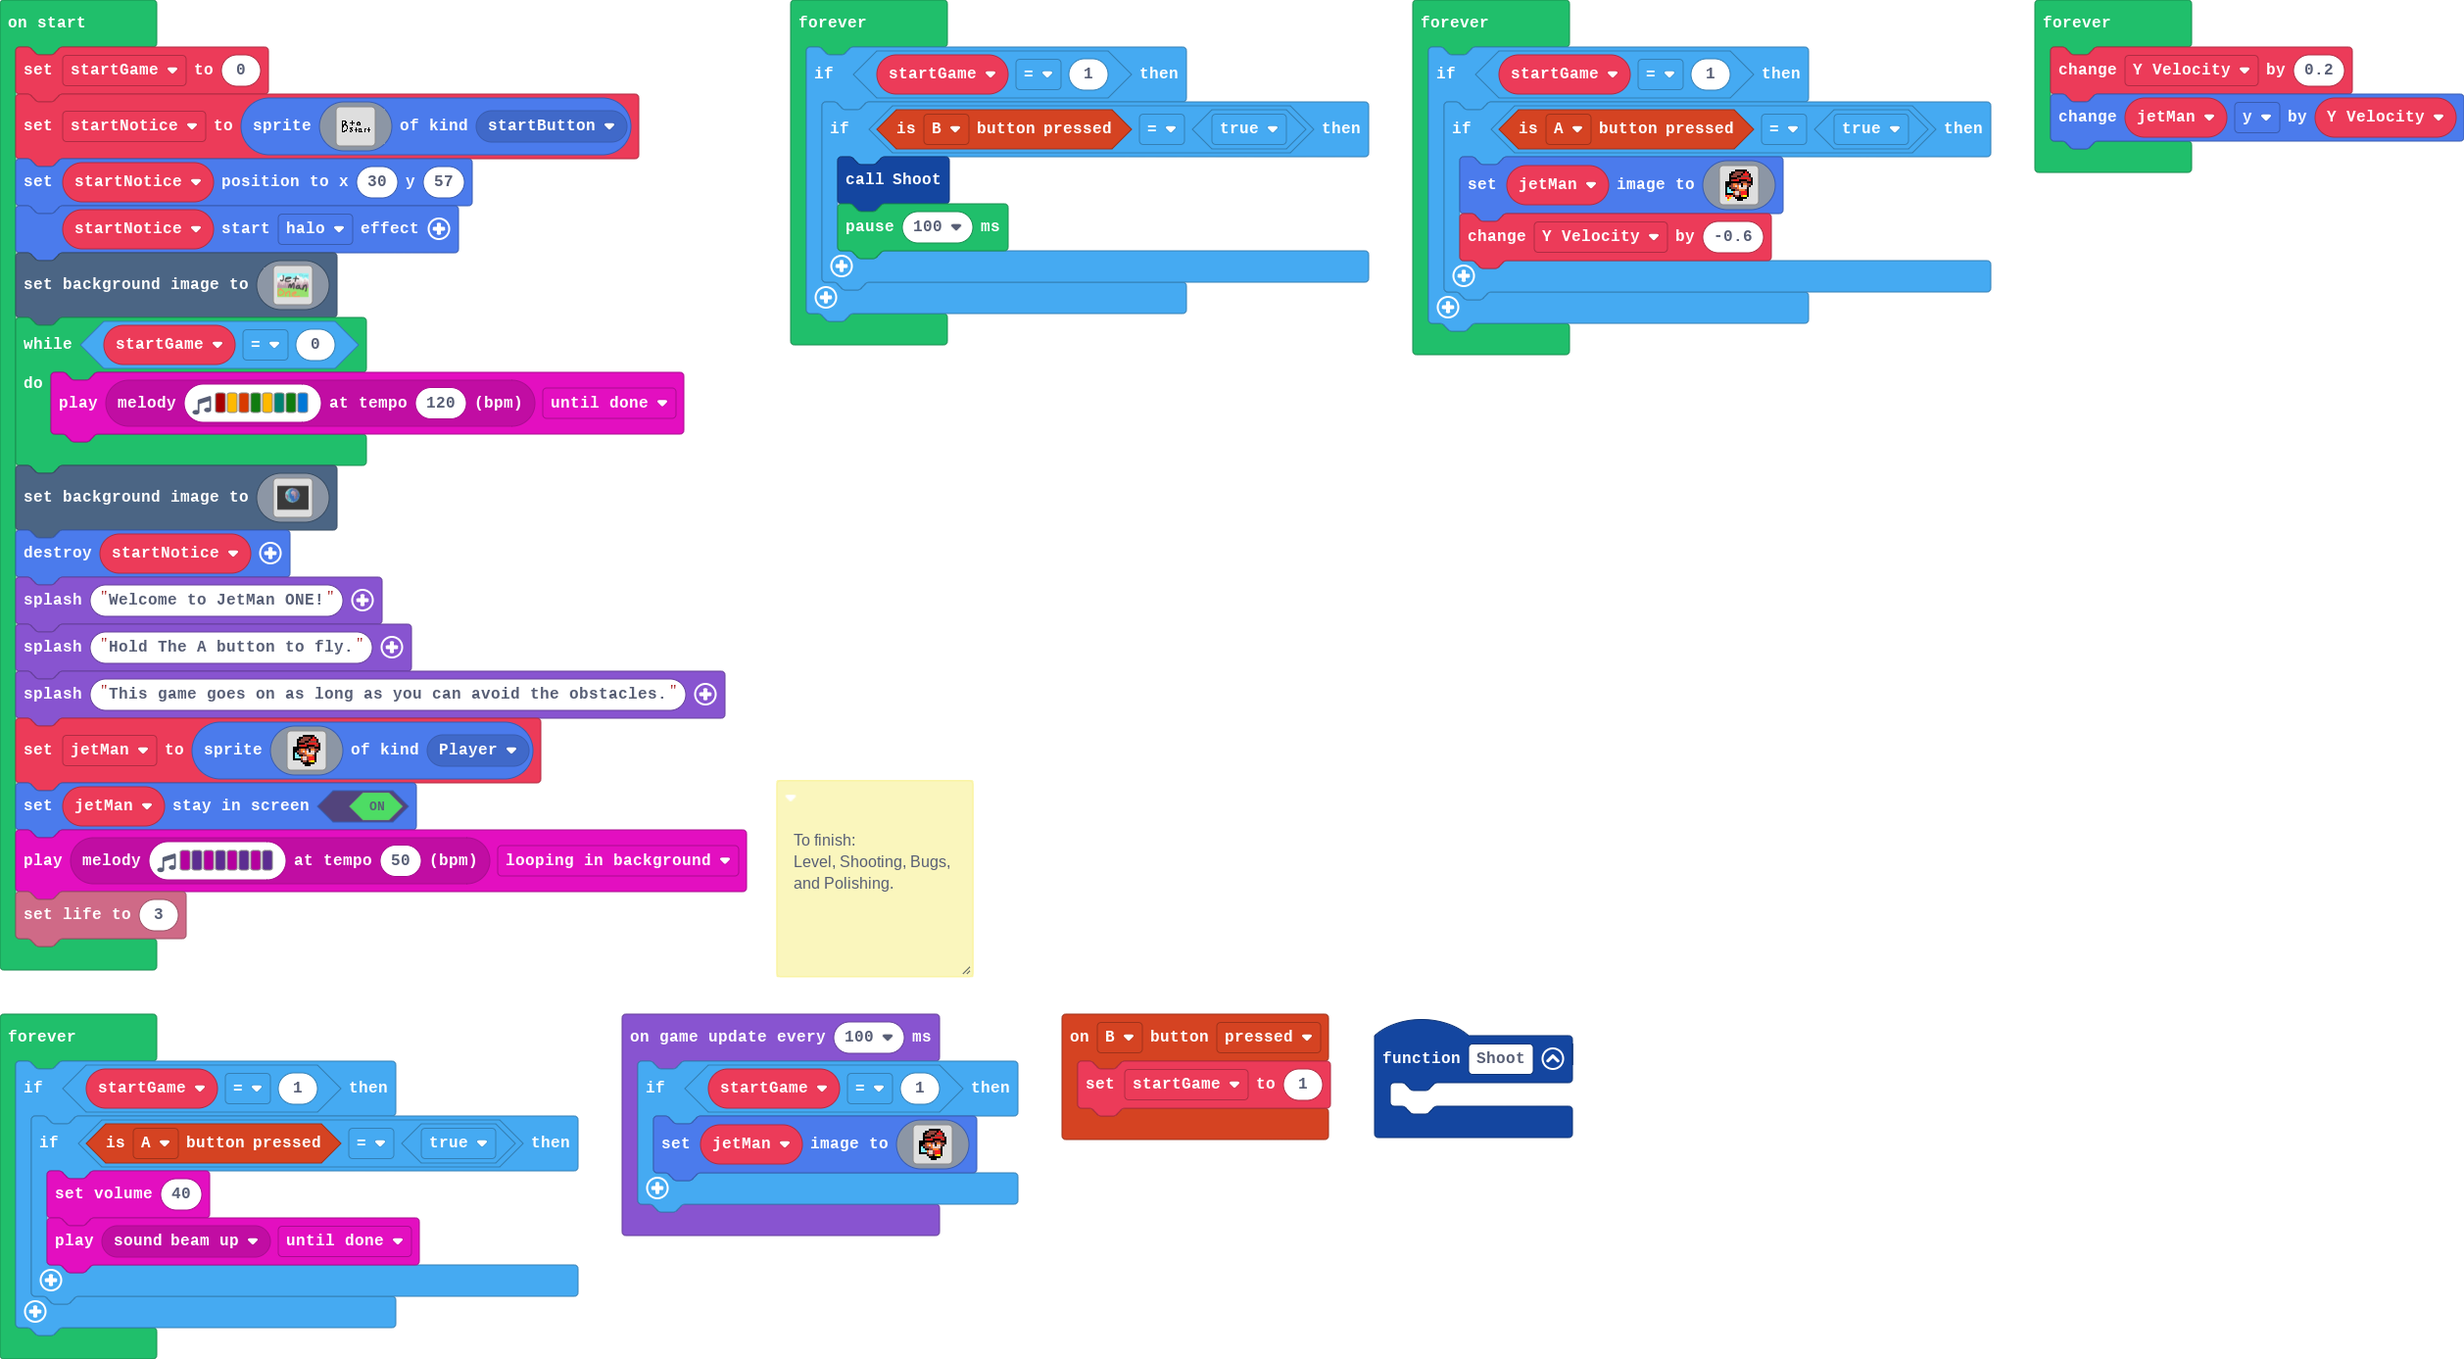
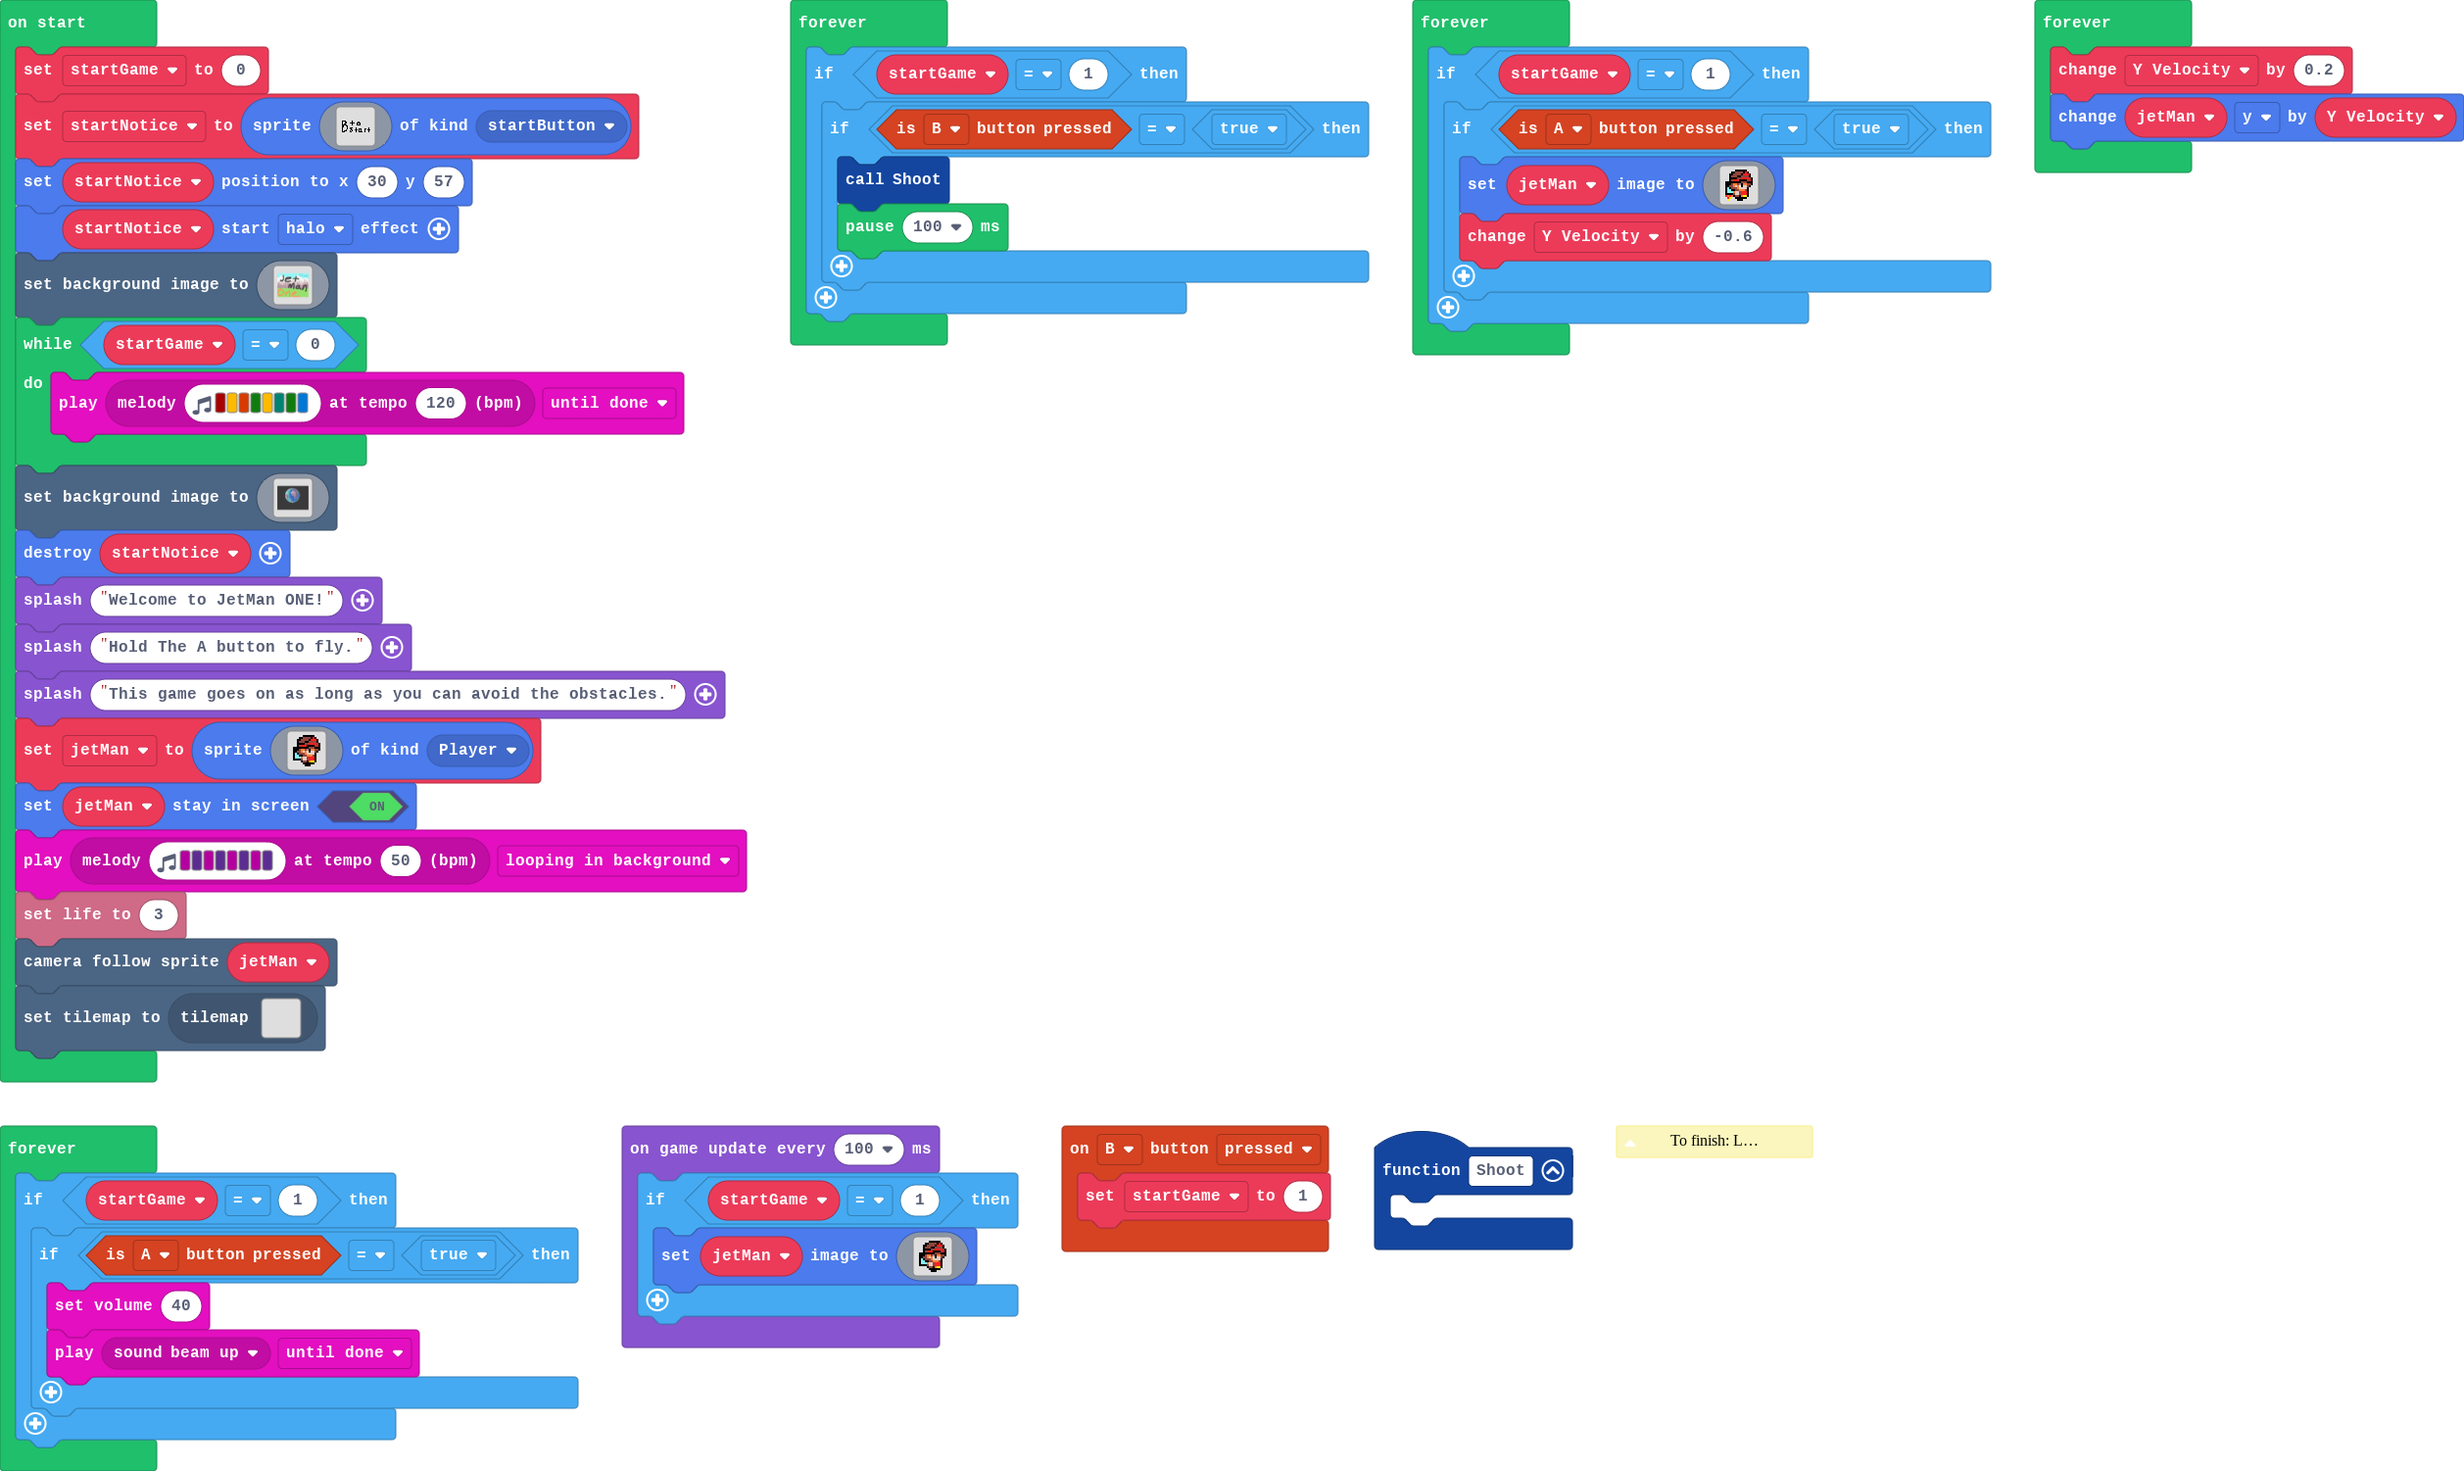
Update main.blocks, main.ts, tilemap.g.jres, tilemap.g.ts

Changed region(s): [[0.0, 0.0, 0.7443, 0.9921], [0.5583, 0.031, 1.0, 0.279], [0.3101, 0.031, 0.5583, 0.279]]

diff --git a/tilemap.g.ts b/tilemap.g.ts
@@ -7,81 +7,24 @@ namespace myTiles {
 
     helpers._registerFactory("tilemap", function(name: string) {
         switch(helpers.stringTrim(name)) {
-            case "level3":
-            case "level3":return tiles.createTilemap(hex`1000100000000000000000000000000000000000000000000000000000000000000000000000000000000000000000000000000000000000000000000000000000000000000000000000000000000000000000000000000000000000000000000000000000000000000000000000000000000000000000000000000000000000000000000000000000000000000000000000000000000000000000000000000000000000000000000000000000000000000000000000000000000000000000000000000000000000000000000000000000000000000000000000000000000000000000000000000000000000000000000000000000000000000000000000000000000000`, img`
-. . . . . . . . . . . . . . . . 
-. . . . . . . . . . . . . . . . 
-. . . . . . . . . . . . . . . . 
-. . . . . . . . . . . . . . . . 
-. . . . . . . . . . . . . . . . 
-. . . . . . . . . . . . . . . . 
-. . . . . . . . . . . . . . . . 
-. . . . . . . . . . . . . . . . 
-. . . . . . . . . . . . . . . . 
-. . . . . . . . . . . . . . . . 
-. . . . . . . . . . . . . . . . 
-. . . . . . . . . . . . . . . . 
-. . . . . . . . . . . . . . . . 
-. . . . . . . . . . . . . . . . 
-. . . . . . . . . . . . . . . . 
-. . . . . . . . . . . . . . . . 
-`, [myTiles.transparency16], TileScale.Sixteen);
-            case "level4":
-            case "level4":return tiles.createTilemap(hex`1000100000000000000000000000000000000000000000000000000000000000000000000000000000000000000000000000000000000000000000000000000000000000000000000000000000000000000000000000000000000000000000000000000000000000000000000000000000000000000000000000000000000000000000000000000000000000000000000000000000000000000000000000000000000000000000000000000000000000000000000000000000000000000000000000000000000000000000000000000000000000000000000000000000000000000000000000000000000000000000000000000000000000000000000000000000000000`, img`
-. . . . . . . . . . . . . . . . 
-. . . . . . . . . . . . . . . . 
-. . . . . . . . . . . . . . . . 
-. . . . . . . . . . . . . . . . 
-. . . . . . . . . . . . . . . . 
-. . . . . . . . . . . . . . . . 
-. . . . . . . . . . . . . . . . 
-. . . . . . . . . . . . . . . . 
-. . . . . . . . . . . . . . . . 
-. . . . . . . . . . . . . . . . 
-. . . . . . . . . . . . . . . . 
-. . . . . . . . . . . . . . . . 
-. . . . . . . . . . . . . . . . 
-. . . . . . . . . . . . . . . . 
-. . . . . . . . . . . . . . . . 
-. . . . . . . . . . . . . . . . 
-`, [myTiles.transparency16], TileScale.Sixteen);
-            case "level5":
-            case "level5":return tiles.createTilemap(hex`1000100000000000000000000000000000000000000000000000000000000000000000000000000000000000000000000000000000000000000000000000000000000000000000000000000000000000000000000000000000000000000000000000000000000000000000000000000000000000000000000000000000000000000000000000000000000000000000000000000000000000000000000000000000000000000000000000000000000000000000000000000000000000000000000000000000000000000000000000000000000000000000000000000000000000000000000000000000000000000000000000000000000000000000000000000000000000`, img`
-. . . . . . . . . . . . . . . . 
-. . . . . . . . . . . . . . . . 
-. . . . . . . . . . . . . . . . 
-. . . . . . . . . . . . . . . . 
-. . . . . . . . . . . . . . . . 
-. . . . . . . . . . . . . . . . 
-. . . . . . . . . . . . . . . . 
-. . . . . . . . . . . . . . . . 
-. . . . . . . . . . . . . . . . 
-. . . . . . . . . . . . . . . . 
-. . . . . . . . . . . . . . . . 
-. . . . . . . . . . . . . . . . 
-. . . . . . . . . . . . . . . . 
-. . . . . . . . . . . . . . . . 
-. . . . . . . . . . . . . . . . 
-. . . . . . . . . . . . . . . . 
-`, [myTiles.transparency16], TileScale.Sixteen);
-            case "level6":
-            case "level6":return tiles.createTilemap(hex`1000100000000000000000000000000000000000000000000000000000000000000000000000000000000000000000000000000000000000000000000000000000000000000000000000000000000000000000000000000000000000000000000000000000000000000000000000000000000000000000000000000000000000000000000000000000000000000000000000000000000000000000000000000000000000000000000000000000000000000000000000000000000000000000000000000000000000000000000000000000000000000000000000000000000000000000000000000000000000000000000000000000000000000000000000000000000000`, img`
-. . . . . . . . . . . . . . . . 
-. . . . . . . . . . . . . . . . 
-. . . . . . . . . . . . . . . . 
-. . . . . . . . . . . . . . . . 
-. . . . . . . . . . . . . . . . 
-. . . . . . . . . . . . . . . . 
-. . . . . . . . . . . . . . . . 
-. . . . . . . . . . . . . . . . 
-. . . . . . . . . . . . . . . . 
-. . . . . . . . . . . . . . . . 
-. . . . . . . . . . . . . . . . 
-. . . . . . . . . . . . . . . . 
-. . . . . . . . . . . . . . . . 
-. . . . . . . . . . . . . . . . 
-. . . . . . . . . . . . . . . . 
-. . . . . . . . . . . . . . . . 
+            case "Level":
[1 lines of base64/hex data omitted]
+........................................................................................................................................................................................................
+........................................................................................................................................................................................................
+........................................................................................................................................................................................................
+........................................................................................................................................................................................................
+........................................................................................................................................................................................................
+........................................................................................................................................................................................................
+........................................................................................................................................................................................................
+........................................................................................................................................................................................................
+........................................................................................................................................................................................................
+........................................................................................................................................................................................................
+........................................................................................................................................................................................................
+........................................................................................................................................................................................................
+........................................................................................................................................................................................................
+........................................................................................................................................................................................................
+........................................................................................................................................................................................................
+........................................................................................................................................................................................................
 `, [myTiles.transparency16], TileScale.Sixteen);
             case "Level1":
[1 lines of base64/hex data omitted]
@@ -102,25 +45,6 @@ namespace myTiles {
 .......................2..............................
 222222......2222222222222222.......2222222222222222222
 `, [myTiles.transparency16,sprites.dungeon.hazardLava1,sprites.dungeon.darkGroundNorth,sprites.dungeon.hazardLava0,sprites.dungeon.darkGroundEast,sprites.dungeon.darkGroundSouthEast0,sprites.dungeon.darkGroundSouthWest0,sprites.dungeon.darkGroundWest,sprites.builtin.brick,sprites.dungeon.doorClosedNorth,myTiles.tile1], TileScale.Sixteen);
-            case "Level2":
[1 lines of base64/hex data omitted]
-........2222..........................................
-........2222..........................................
-........2222..........................................
-........2222..........................................
-......................................................
-...................................222222.............
-........2222.......................222222.............
-........2222.......................222222.............
-......................................................
-......................................................
-......................................................
-...........................222........................
-...........................222........................
-...........................222........................
-...........2.............2.222.........22.............
-222.....222222222222..22222222......222222222222222222
-`, [myTiles.transparency16,myTiles.tile1,sprites.castle.tilePath2,sprites.dungeon.hazardWater,sprites.builtin.forestTiles0,sprites.castle.tilePath7,sprites.castle.tilePath9,sprites.castle.tilePath8,sprites.castle.tilePath1,sprites.castle.tilePath3,sprites.castle.tilePath4,sprites.castle.tilePath6,sprites.castle.tilePath5], TileScale.Sixteen);
         }
         return null;
     })

diff --git a/main.ts b/main.ts
@@ -31,6 +31,8 @@ let jetMan = sprites.create(assets.image`Idle`, SpriteKind.Player)
 jetMan.setStayInScreen(true)
 music.play(music.stringPlayable("C D C D C D C D ", 50), music.PlaybackMode.LoopingInBackground)
 info.setLife(3)
+scene.cameraFollowSprite(jetMan)
+tiles.setCurrentTilemap(tilemap`Level`)
 forever(function () {
     if (startGame == 1) {
         if (controller.B.isPressed() == true) {
